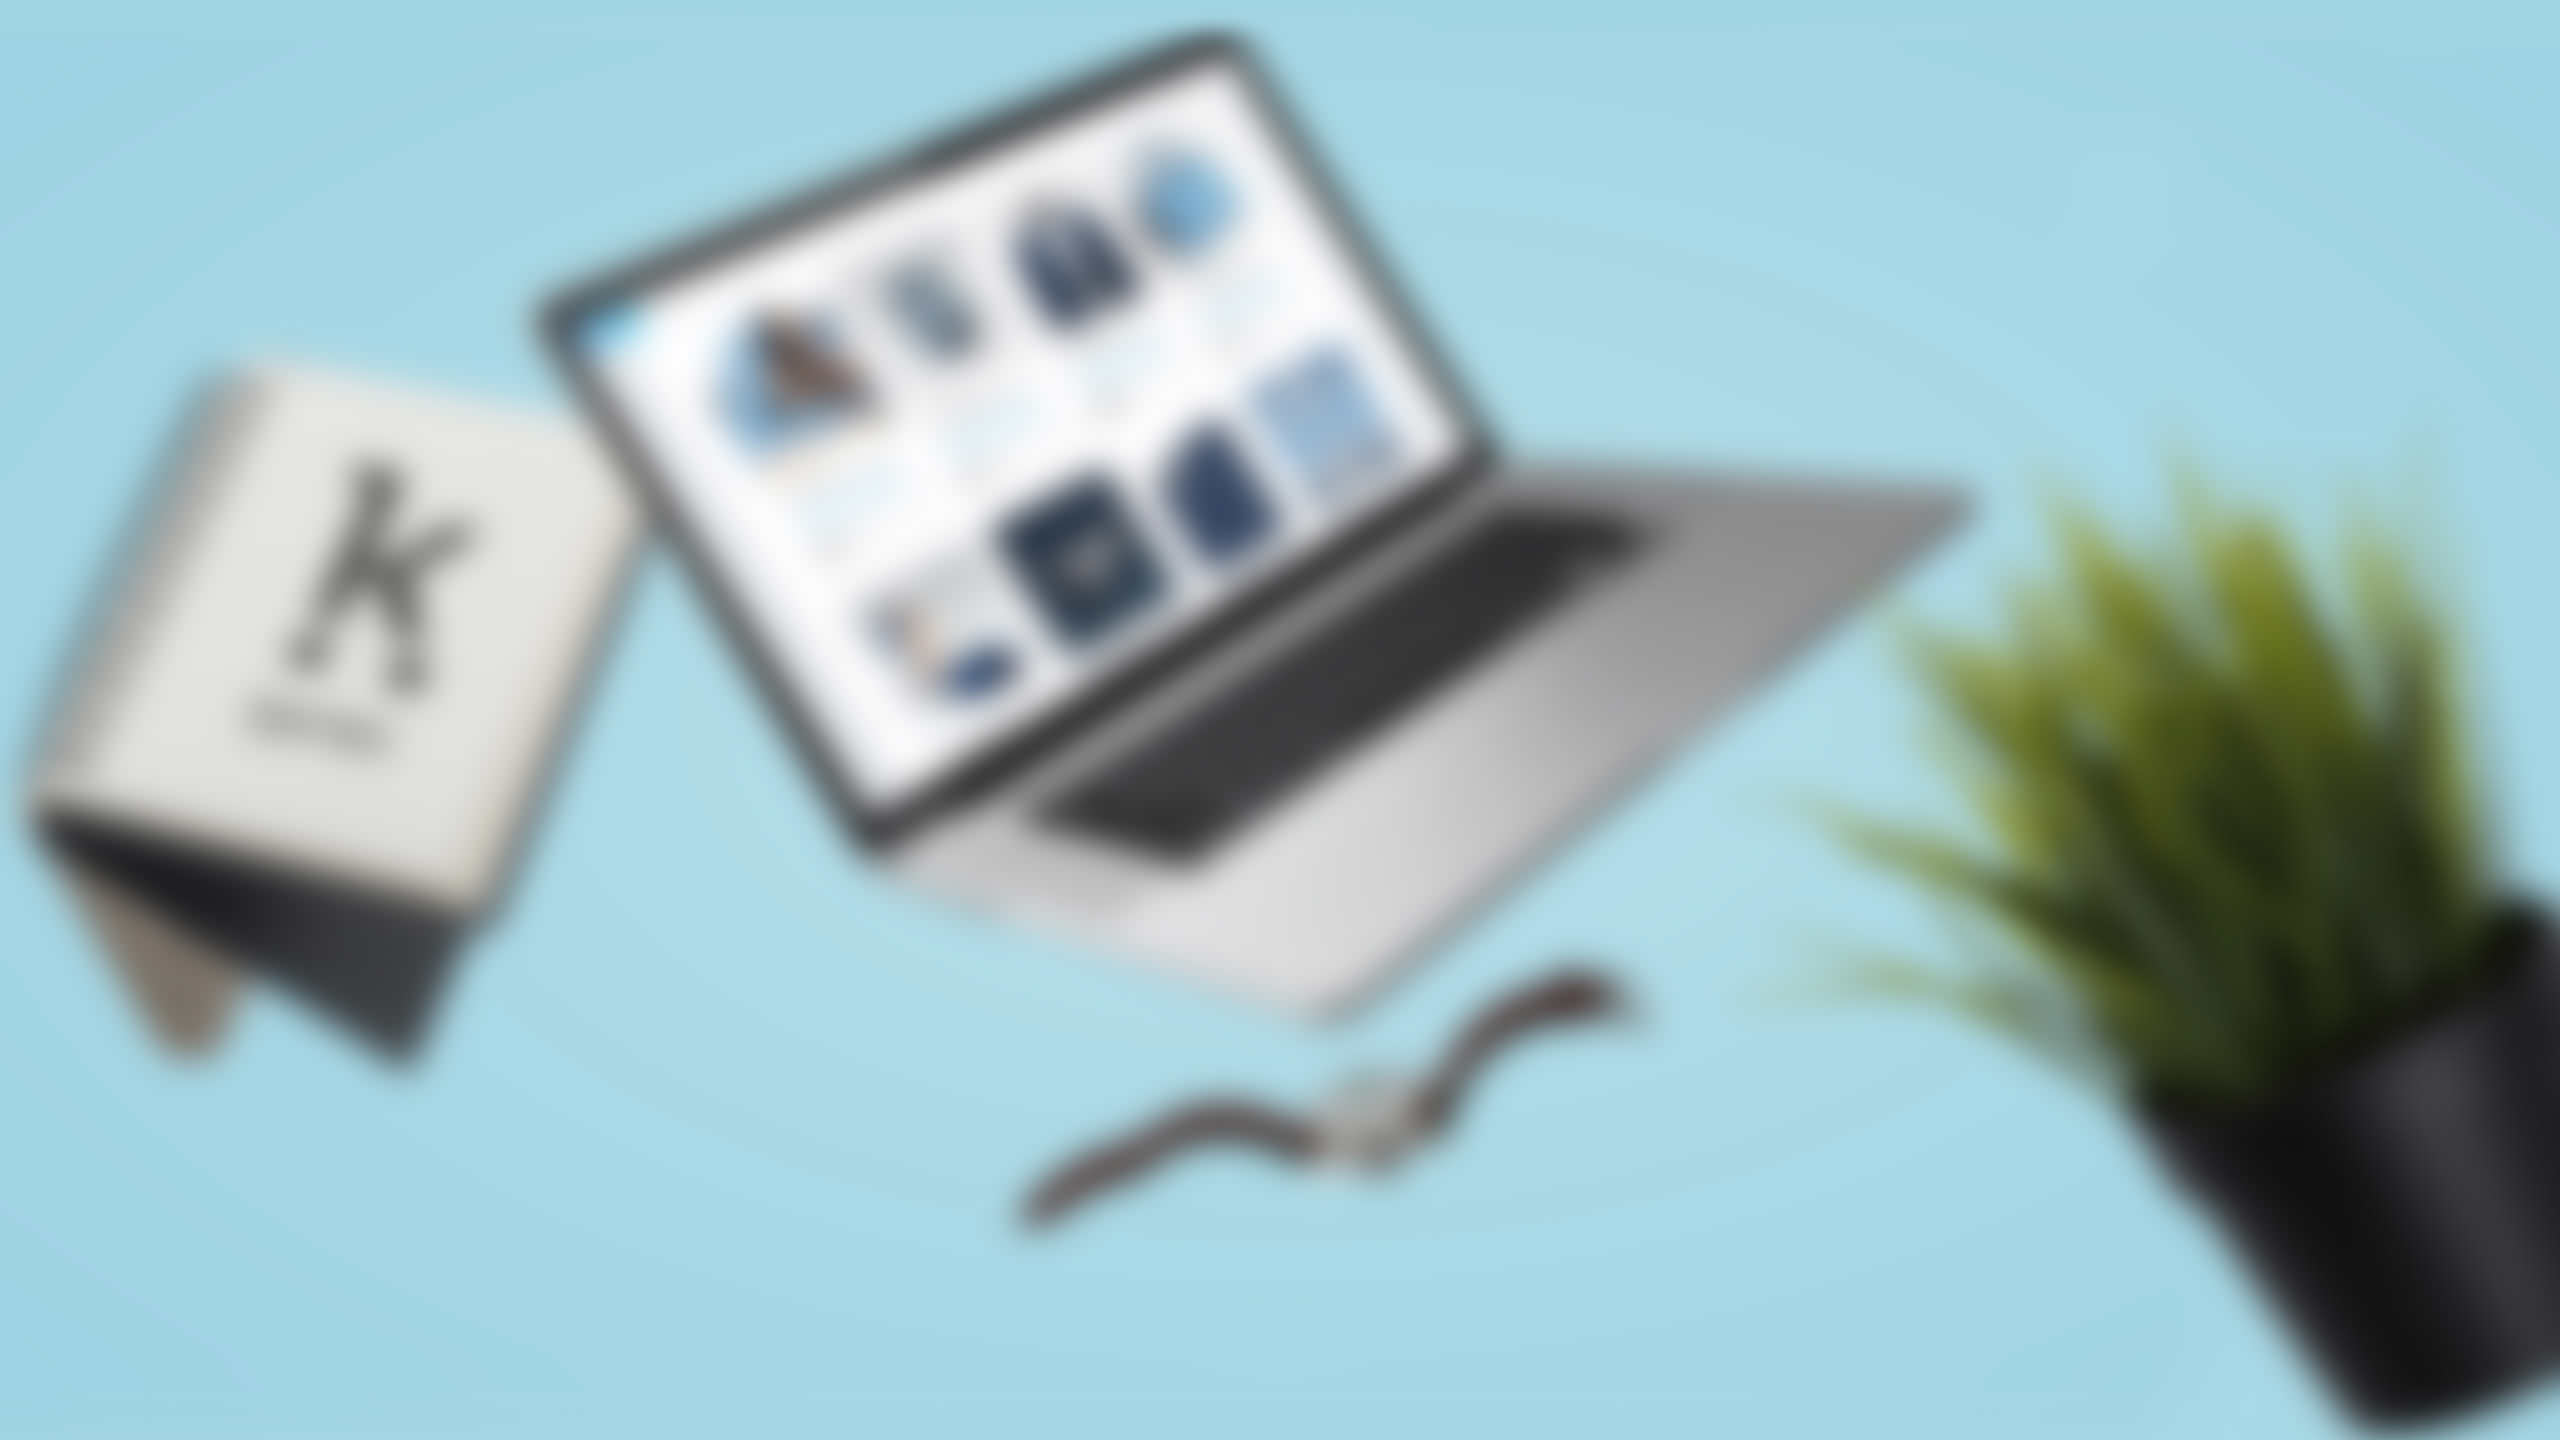
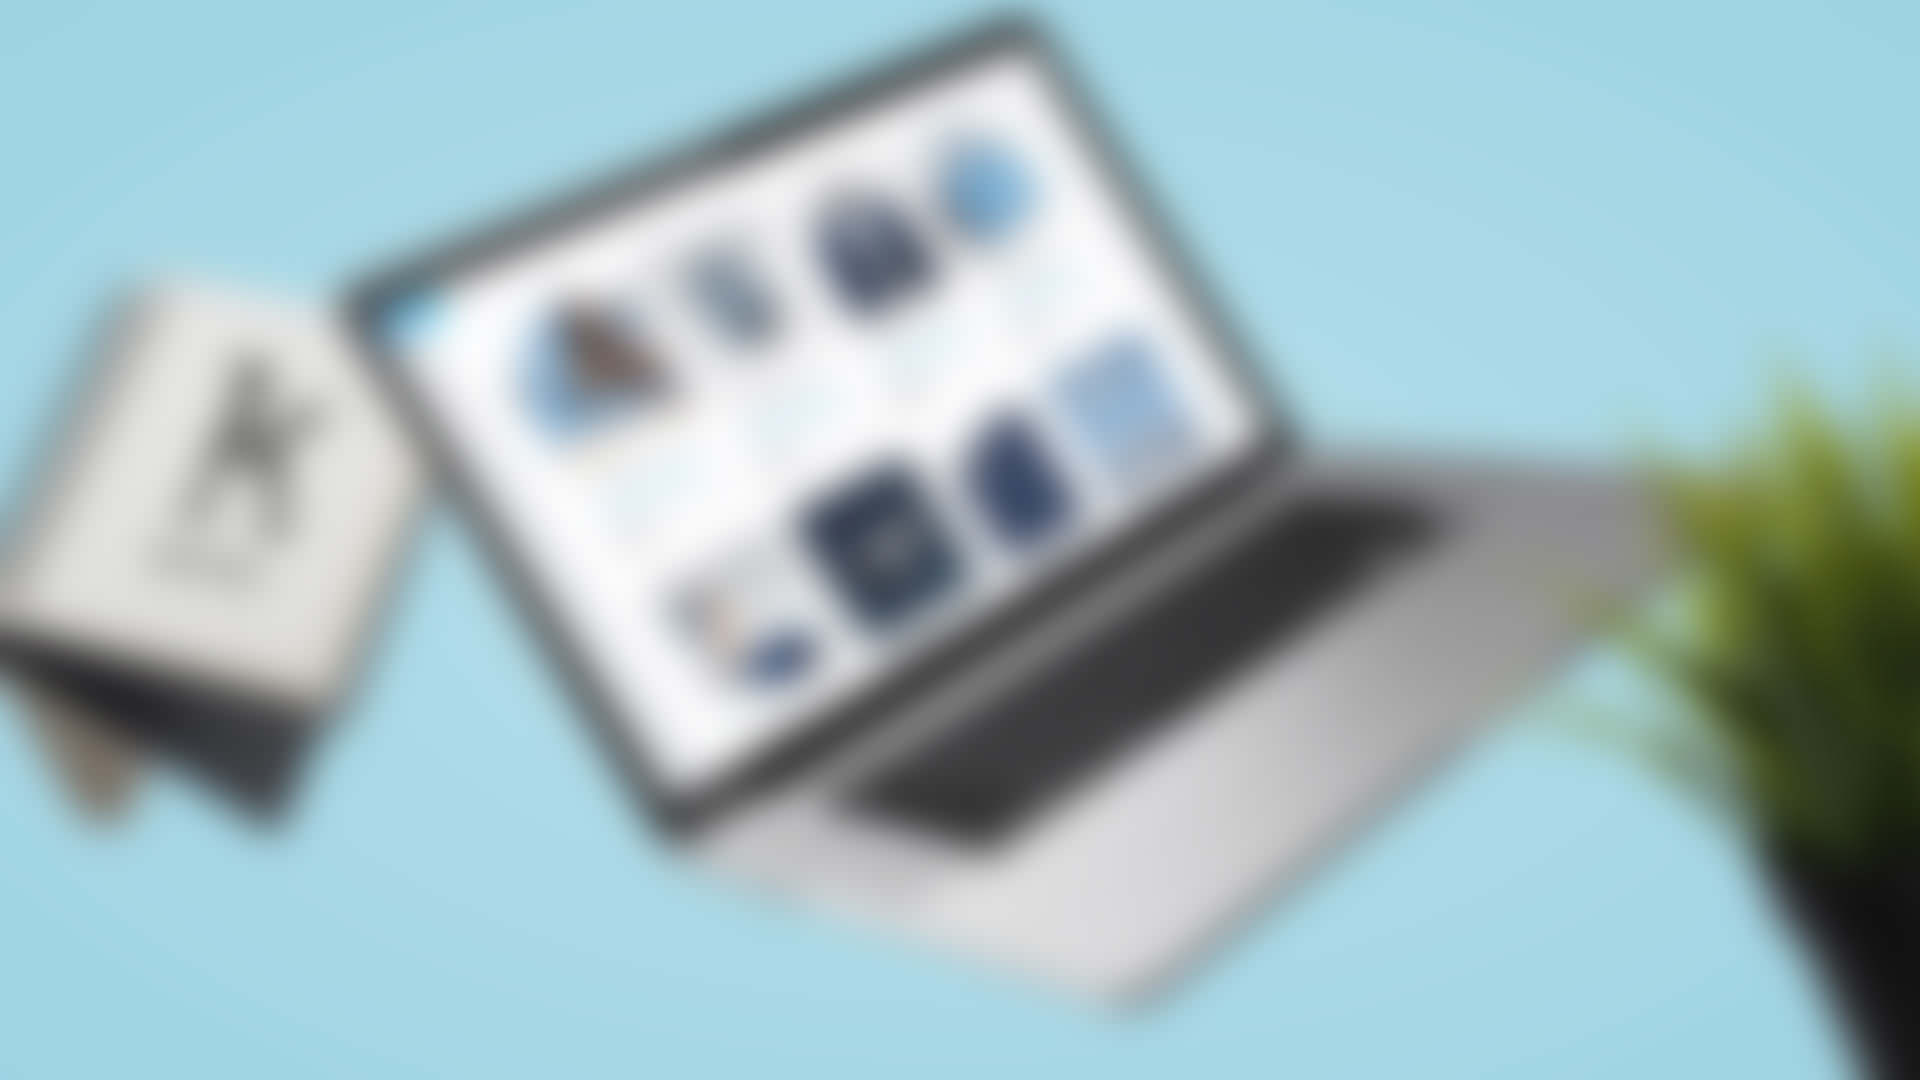
Added the blurred backgrounds

diff --git a/src/app/fancy-slider/blur/resources.service.js b/src/app/fancy-slider/blur/resources.service.js
@@ -94,6 +94,14 @@
         blurredBackgrounds[context][1] = new PIXI.Sprite(new PIXI.Texture.fromImage(blurResourcesUrl.secondSlide));
         blurredBackgrounds[context][2] = new PIXI.Sprite(new PIXI.Texture.fromImage(blurResourcesUrl.thirdSlide));
 
+        // Otherwise, the 1920 resources, may not cover the entire screen.
+        blurredBackgrounds[context][0].width = 2560;
+        blurredBackgrounds[context][1].width = 2560;
+        blurredBackgrounds[context][2].width = 2560;
+        blurredBackgrounds[context][0].height = 1440;
+        blurredBackgrounds[context][1].height = 1440;
+        blurredBackgrounds[context][2].height = 1440;
+
         blurredBackgroundsContainer[context].addChild(blurredBackgrounds[context][0]);
         blurredBackgroundsContainer[context].addChild(blurredBackgrounds[context][1]);
         blurredBackgroundsContainer[context].addChild(blurredBackgrounds[context][2]);
